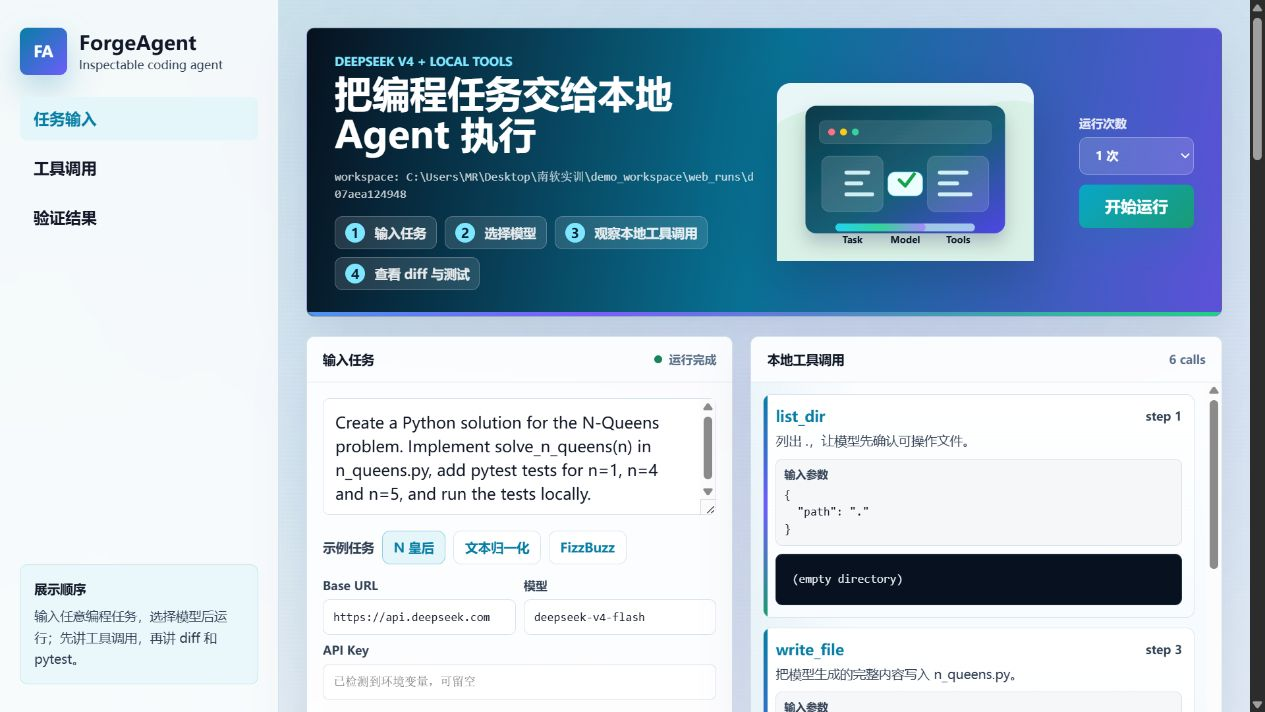
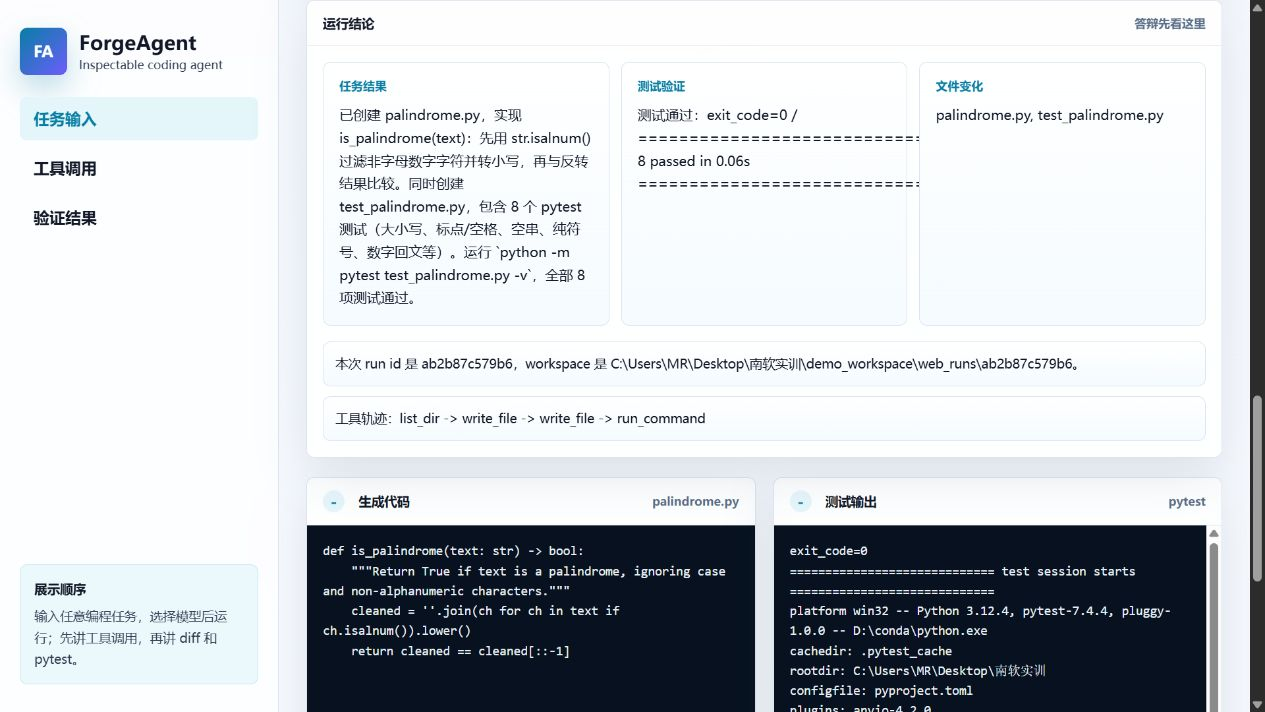
feat: simplify demo evidence panels

diff --git a/web_demo/index.html b/web_demo/index.html
@@ -115,52 +115,55 @@
       </div>
     </section>
 
-    <section class="grid" id="evidence">
-      <div class="panel">
-        <div class="panel-head"><span>模型动作与工具结果</span><span>transcript</span></div>
-        <div class="log" id="transcript">点击“开始运行”后显示每一轮模型动作和本地工具观察。</div>
-      </div>
-      <div class="panel">
-        <div class="panel-head"><span>最终回答</span><span>final answer</span></div>
-        <pre id="answerView">尚未运行</pre>
-      </div>
-    </section>
-
-    <section class="grid">
-      <div class="panel">
-        <div class="panel-head"><span>最终代码</span><span id="codeFileLabel">等待生成</span></div>
-        <pre id="codeView">尚未运行</pre>
-      </div>
-      <div class="panel">
-        <div class="panel-head"><span>文件差异</span><span>real diff</span></div>
-        <pre id="diffView">尚未运行</pre>
-      </div>
-    </section>
-
-    <section class="grid">
-      <div class="panel">
-        <div class="panel-head"><span>测试输出</span><span>pytest</span></div>
-        <pre id="testView">尚未运行</pre>
-      </div>
-      <div class="panel">
-        <div class="panel-head"><span>测试文件</span><span id="testFileLabel">等待生成</span></div>
-        <pre id="testFileView">尚未运行</pre>
-      </div>
-    </section>
-
-    <section class="grid one-two">
-      <div class="panel" id="memory">
-        <div class="panel-head"><span>项目记忆</span><span>.agent/PROJECT_MEMORY.md</span></div>
-        <pre id="memoryView">尚未运行</pre>
-      </div>
-      <div class="panel">
-        <div class="panel-head"><span>本次运行摘要</span><span>dynamic evidence</span></div>
+    <section class="result-board" id="evidence">
+      <div class="panel result-summary">
+        <div class="panel-head"><span>运行结论</span><span>答辩先看这里</span></div>
+        <div class="summary-grid">
+          <article>
+            <small>任务结果</small>
+            <p id="answerView">尚未运行。完成后这里会用一句话说明 Agent 做成了什么。</p>
+          </article>
+          <article>
+            <small>测试验证</small>
+            <p id="testSummary">尚未运行。这里会显示 pytest 是否通过。</p>
+          </article>
+          <article>
+            <small>文件变化</small>
+            <p id="fileSummary">尚未运行。这里会列出本次创建或修改的文件。</p>
+          </article>
+        </div>
         <div class="evidence-list">
           <p id="evidenceRun">运行后这里显示本次 run id 和 workspace。</p>
           <p id="evidenceTools">工具轨迹会按模型真实动作更新。</p>
-          <p id="evidenceTests">测试结果会显示 pytest 是否通过。</p>
         </div>
       </div>
+    </section>
+
+    <section class="details-board">
+      <details class="detail-panel" open>
+        <summary><strong>生成代码</strong><span id="codeFileLabel">等待生成</span></summary>
+        <pre id="codeView">尚未运行</pre>
+      </details>
+      <details class="detail-panel" open>
+        <summary><strong>测试输出</strong><span>pytest</span></summary>
+        <pre id="testView">尚未运行</pre>
+      </details>
+      <details class="detail-panel">
+        <summary><strong>测试文件</strong><span id="testFileLabel">等待生成</span></summary>
+        <pre id="testFileView">尚未运行</pre>
+      </details>
+      <details class="detail-panel">
+        <summary><strong>文件差异</strong><span>diff 详情</span></summary>
+        <pre id="diffView">尚未运行</pre>
+      </details>
+      <details class="detail-panel">
+        <summary><strong>原始模型日志</strong><span>调试用 transcript</span></summary>
+        <div class="log" id="transcript">点击“开始运行”后显示每一轮模型动作和本地工具观察。</div>
+      </details>
+      <details class="detail-panel" id="memory">
+        <summary><strong>项目记忆</strong><span>.agent/PROJECT_MEMORY.md</span></summary>
+        <pre id="memoryView">尚未运行</pre>
+      </details>
     </section>
   </main>
 

diff --git a/web_demo/static/app.js b/web_demo/static/app.js
@@ -5,6 +5,8 @@ const taskEl = document.getElementById("task");
 const flowEl = document.getElementById("flow");
 const transcriptEl = document.getElementById("transcript");
 const answerView = document.getElementById("answerView");
+const testSummary = document.getElementById("testSummary");
+const fileSummary = document.getElementById("fileSummary");
 const codeView = document.getElementById("codeView");
 const codeFileLabel = document.getElementById("codeFileLabel");
 const testView = document.getElementById("testView");
@@ -19,7 +21,6 @@ const historyView = document.getElementById("historyView");
 const resultLine = document.getElementById("resultLine");
 const evidenceRun = document.getElementById("evidenceRun");
 const evidenceTools = document.getElementById("evidenceTools");
-const evidenceTests = document.getElementById("evidenceTests");
 const stepsMetric = document.getElementById("stepsMetric");
 const testsMetric = document.getElementById("testsMetric");
 const memoryMetric = document.getElementById("memoryMetric");
@@ -136,6 +137,8 @@ async function runOnce(batchIndex = null, propagateError = false) {
   renderFlow(1, 0);
   transcriptEl.textContent = "后端正在重置演示工作区并运行 Agent...";
   answerView.textContent = "等待 final";
+  testSummary.textContent = "pytest 尚未执行。";
+  fileSummary.textContent = "文件变化尚未返回。";
   codeView.textContent = "等待生成";
   diffView.textContent = "等待 diff";
   testView.textContent = "等待测试";
@@ -147,7 +150,6 @@ async function runOnce(batchIndex = null, propagateError = false) {
   resultLine.textContent = "运行中：等待模型返回 JSON action。";
   evidenceRun.textContent = "正在创建独立 workspace。";
   evidenceTools.textContent = "工具轨迹尚未返回。";
-  evidenceTests.textContent = "pytest 尚未执行。";
   stepsMetric.textContent = "0";
   testsMetric.textContent = "-";
   memoryMetric.textContent = "-";
@@ -185,12 +187,14 @@ async function runOnce(batchIndex = null, propagateError = false) {
     memoryMetric.textContent = data.memory_recorded ? "yes" : "no";
     addHistory(data);
     const tools = (data.tool_calls || []).map((item) => item.tool).join(" -> ");
+    const changedFiles = (data.changed_files || []).join(", ");
     resultLine.textContent = `完成：run ${data.run_id || "-"} / ${data.model || "-"} / ${data.duration_ms || 0} ms / ${data.tests_passed ? "tests passed" : "tests need check"}`;
     evidenceRun.textContent = `本次 run id 是 ${data.run_id || "-"}，workspace 是 ${data.workspace || "unknown"}。`;
     evidenceTools.textContent = `工具轨迹：${tools || "无"}`;
-    evidenceTests.textContent = data.tests_passed
-      ? "pytest 已通过，说明文件修改后被真实测试验证。"
-      : "pytest 未通过或输出异常，需要查看测试输出。";
+    fileSummary.textContent = changedFiles || "没有检测到文件变化。";
+    testSummary.textContent = data.tests_passed
+      ? `测试通过：${compactTestOutput(data.test_output)}`
+      : `测试未通过：${compactTestOutput(data.test_output)}`;
     setStatus("done", "运行完成");
     return data;
   } catch (error) {
@@ -204,6 +208,16 @@ async function runOnce(batchIndex = null, propagateError = false) {
   } finally {
     if (!batchIndex) runBtn.disabled = false;
   }
+}
+
+function compactTestOutput(output) {
+  const lines = String(output || "").split(/\r?\n/).map((line) => line.trim()).filter(Boolean);
+  const passedLine = [...lines].reverse().map((line) => {
+    const match = line.match(/(\d+\s+passed(?:\s+in\s+[\d.]+s)?)/);
+    return match ? match[1] : "";
+  }).find(Boolean);
+  const exitLine = lines.find((line) => line.startsWith("exit_code="));
+  return [exitLine, passedLine].filter(Boolean).join(" / ") || "没有测试输出";
 }
 
 function addHistory(data) {

diff --git a/web_demo/static/styles.css b/web_demo/static/styles.css
@@ -212,6 +212,12 @@ button:disabled { opacity: .6; cursor: wait; }
   gap: 18px;
 }
 
+.result-board,
+.details-board {
+  display: grid;
+  gap: 18px;
+}
+
 .panel {
   background: var(--panel);
   border: 1px solid var(--line);
@@ -524,9 +530,85 @@ textarea {
   word-break: break-word;
 }
 
-.one-two { grid-template-columns: minmax(0, 1.15fr) minmax(320px, .85fr); }
-.evidence-list {
+.summary-grid {
   padding: 16px;
+  display: grid;
+  grid-template-columns: repeat(3, minmax(0, 1fr));
+  gap: 12px;
+}
+.summary-grid article {
+  min-height: 128px;
+  padding: 16px;
+  border: 1px solid var(--line);
+  border-radius: 8px;
+  background: linear-gradient(180deg, #ffffff, #f5fbff);
+}
+.summary-grid small {
+  display: block;
+  margin-bottom: 10px;
+  color: var(--accent);
+  font-size: 12px;
+  font-weight: 850;
+}
+.summary-grid p {
+  margin: 0;
+  color: var(--ink);
+  font-size: 14px;
+  line-height: 1.65;
+}
+
+.details-board {
+  grid-template-columns: repeat(2, minmax(0, 1fr));
+}
+.detail-panel {
+  min-width: 0;
+  overflow: hidden;
+  border: 1px solid var(--line);
+  border-radius: 8px;
+  background: var(--panel);
+  box-shadow: var(--shadow);
+}
+.detail-panel summary {
+  min-height: 48px;
+  padding: 0 16px;
+  display: flex;
+  align-items: center;
+  justify-content: space-between;
+  gap: 14px;
+  cursor: pointer;
+  border-bottom: 1px solid var(--line);
+  list-style: none;
+}
+.detail-panel summary::-webkit-details-marker { display: none; }
+.detail-panel summary::before {
+  content: "+";
+  width: 22px;
+  height: 22px;
+  flex: 0 0 auto;
+  display: grid;
+  place-items: center;
+  border-radius: 50%;
+  background: var(--accent-soft);
+  color: var(--accent);
+  font-weight: 900;
+}
+.detail-panel[open] summary::before { content: "-"; }
+.detail-panel summary strong {
+  margin-right: auto;
+  font-size: 13px;
+}
+.detail-panel summary span {
+  color: #5b6f89;
+  font-size: 12px;
+  font-weight: 700;
+  word-break: break-all;
+}
+.detail-panel:not([open]) summary {
+  border-bottom: 0;
+}
+
+.evidence-list {
+  padding: 0 16px 16px;
   display: grid;
   gap: 10px;
 }
@@ -544,7 +626,7 @@ textarea {
 @media (max-width: 1060px) {
   body { grid-template-columns: 1fr; }
   .rail { position: static; height: auto; }
-  .workspace, .grid { grid-template-columns: 1fr; }
+  .workspace, .grid, .details-board, .summary-grid { grid-template-columns: 1fr; }
   .flow { grid-template-columns: 1fr; }
   .topbar { align-items: flex-start; grid-template-columns: 1fr; }
   .hero-visual { max-width: 220px; justify-self: start; }
